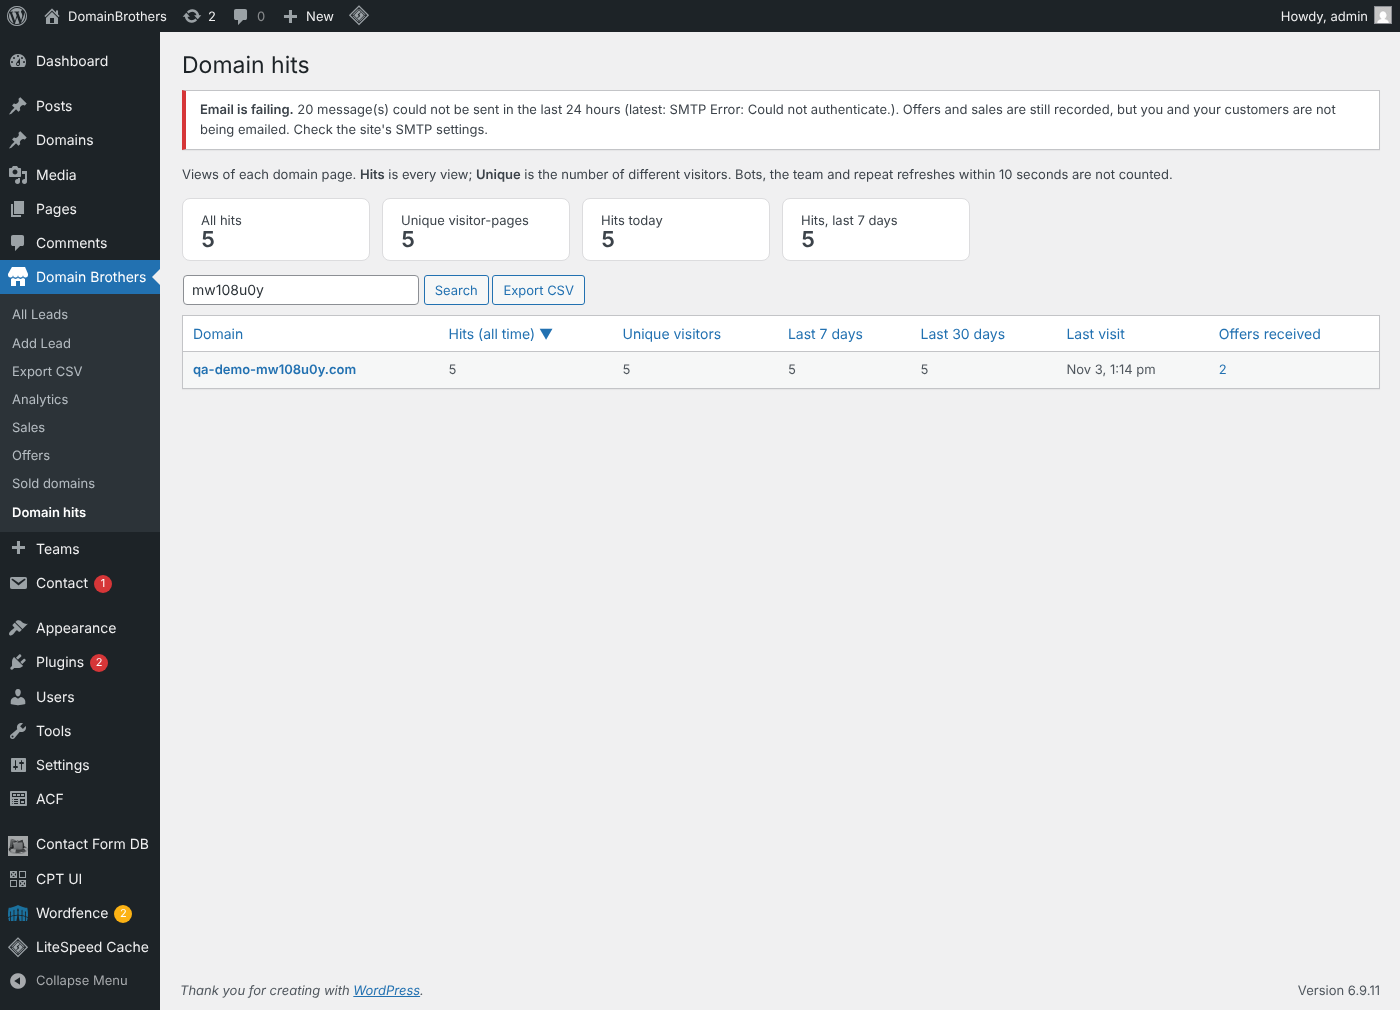
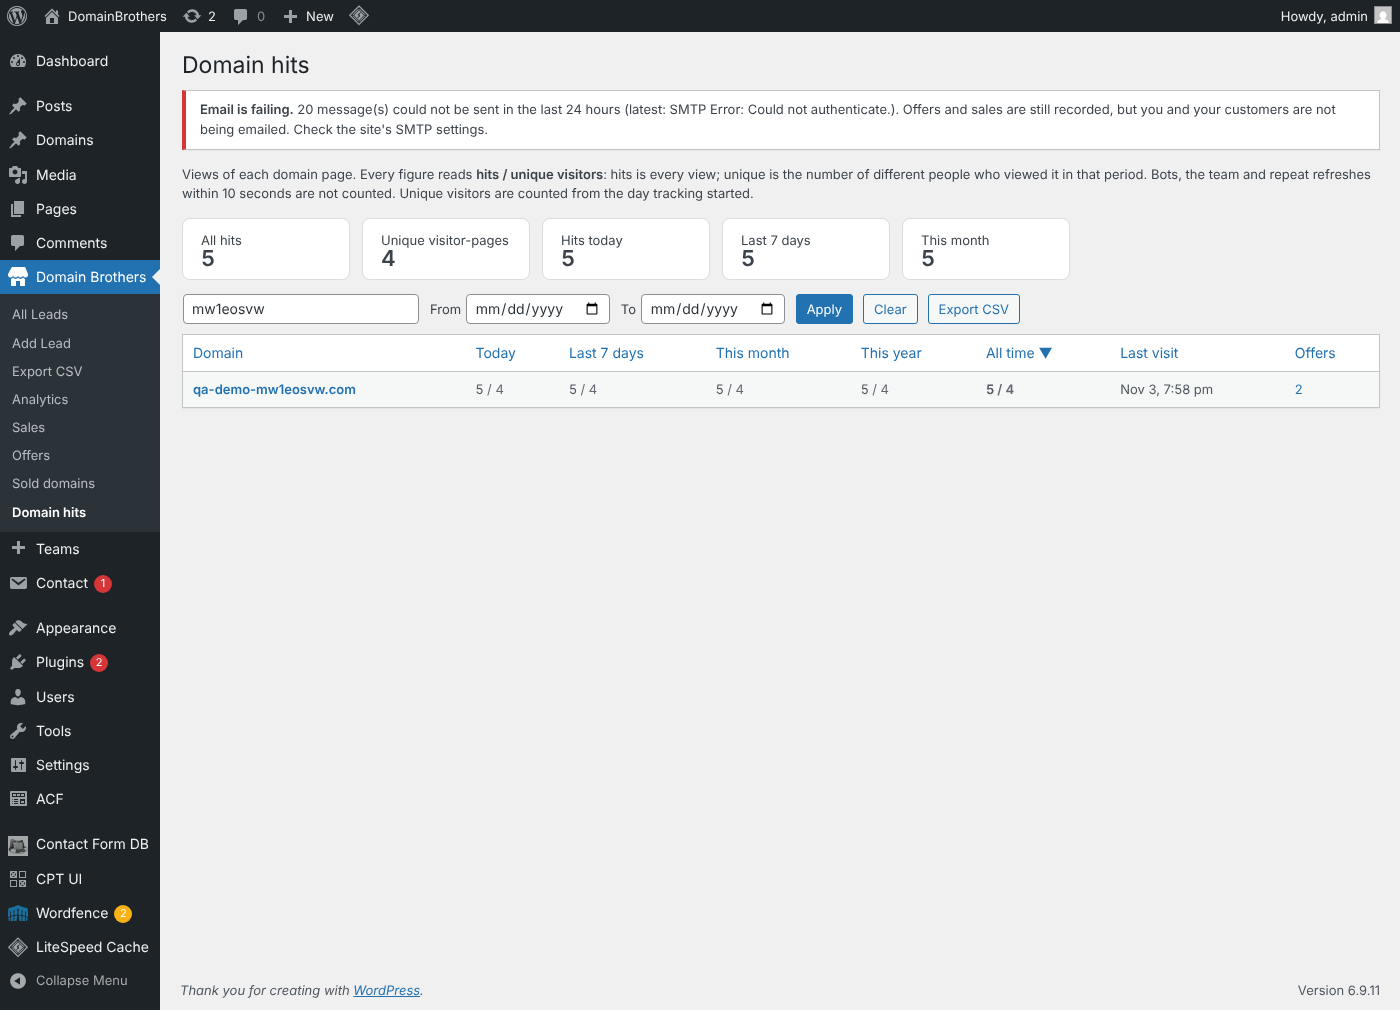
Screenshots and QA report for hits periods, date range, offer intelligence
Claude-Session: https://claude.ai/code/session_01K6obJihKdmVCaNZTWGQrk7

Changed region(s): [[0.1229, 0.1535, 0.9829, 0.399], [0.5221, 0.2149, 0.7064, 0.2762], [0.86, 0.3069, 0.9521, 0.3683]]

diff --git a/QA_REPORT.md b/QA_REPORT.md
@@ -453,3 +453,10 @@ Not-for-sale uses the same layout (amber "NOT FOR SALE" sign, the "Ask the owner
 **Domain hits** (Domain Brothers > Domain hits, plus a Hits / unique column on the domain list). Per domain: all-time hits, unique visitors, last 7 and 30 days, last visit, offers received; sortable, searchable, CSV. Counted by a beacon after the page loads (works behind the page cache). Not counted: bots and link previews, prefetches, logged-in editors, background tabs, the same visitor twice within 10 seconds. A visitor is a salted hash of IP and browser; no address is stored; visitor hashes are purged after 400 days. Caveat: unique visitors depend on the server seeing the visitor's real IP; behind the sandbox proxy used for testing, the same browser can appear as several visitors.
 
 **All offers received** (Offers > All offers received). One row per offer ever made, including earlier leads from before negotiations were tracked, with count, domain total, search and CSV. A buyer who offers again on the same domain while the negotiation is open, countered, declined or expired is added to that negotiation's history (and the team is notified) instead of starting a second one. Test: `tests/qa/hits-offers-log.js` 8/8.
+
+## 21. Page curtain removed; hits by period and date range; offer page intelligence (v3.56.1 - v3.57.0)
+
+- **Curtain removed** (v3.56.1): the navy page-transition overlay (`db-curtain-block.php`) is deleted; no page contains its markup. Site QA 406/407 (the one miss was a single slow `/news/` load that was 0.65 s on recheck).
+- **Domain hits** now show Today, Last 7 days, This month, This year and All time, each as hits / unique visitors, plus a From / To date range column and CSV. A new table (`db_hit_vdays`) records which visitor came on which day, so unique visitors can be counted for any period; unique counts therefore start from the release of v3.57.0 (hit totals continue from v3.56.0). Days follow the site time zone.
+- **Offer page** (Offers > open an offer) has an "About this domain" card: visits by period, every offer and reply on that domain with highest / lowest / average, and similar sold domains (same extension, similar length or same category) with their prices. Only sales with a recorded price are compared, so older sold domains appear once their prices are filled in on Sold domains.
+- Test: `tests/qa/hits-offers-log.js` 11/11.
